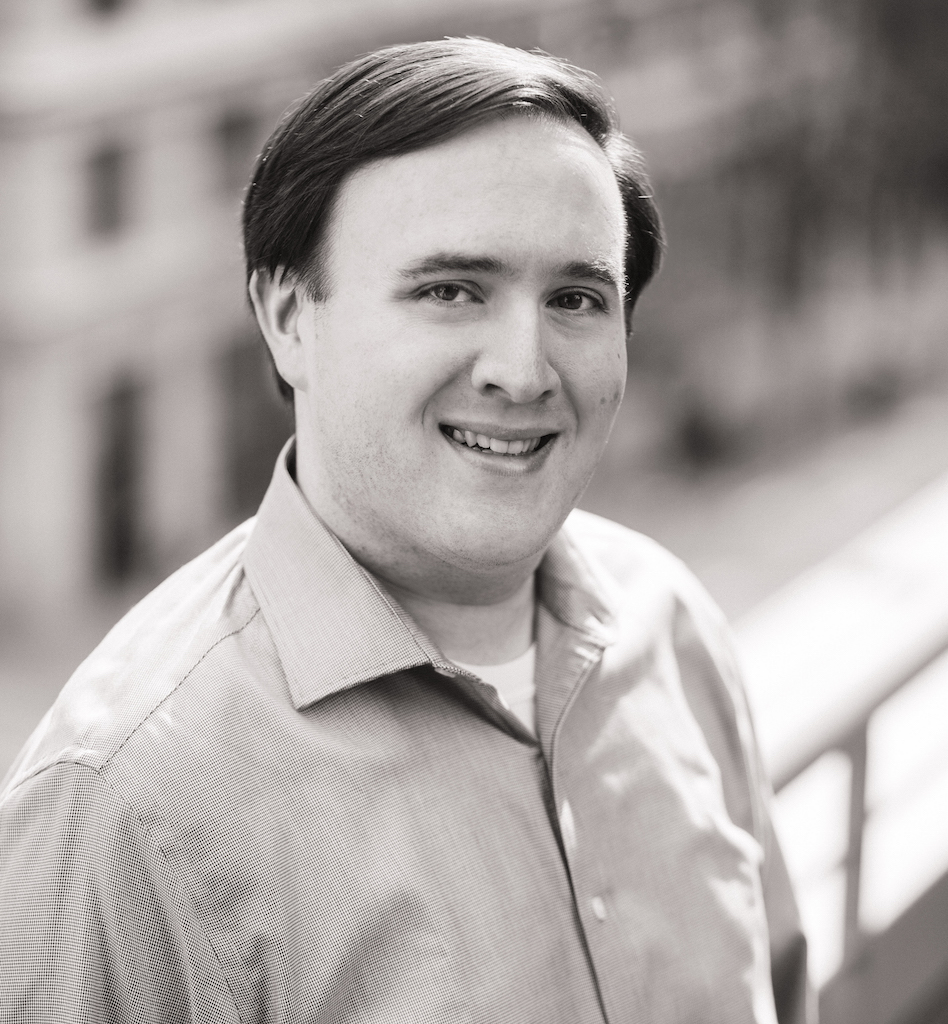
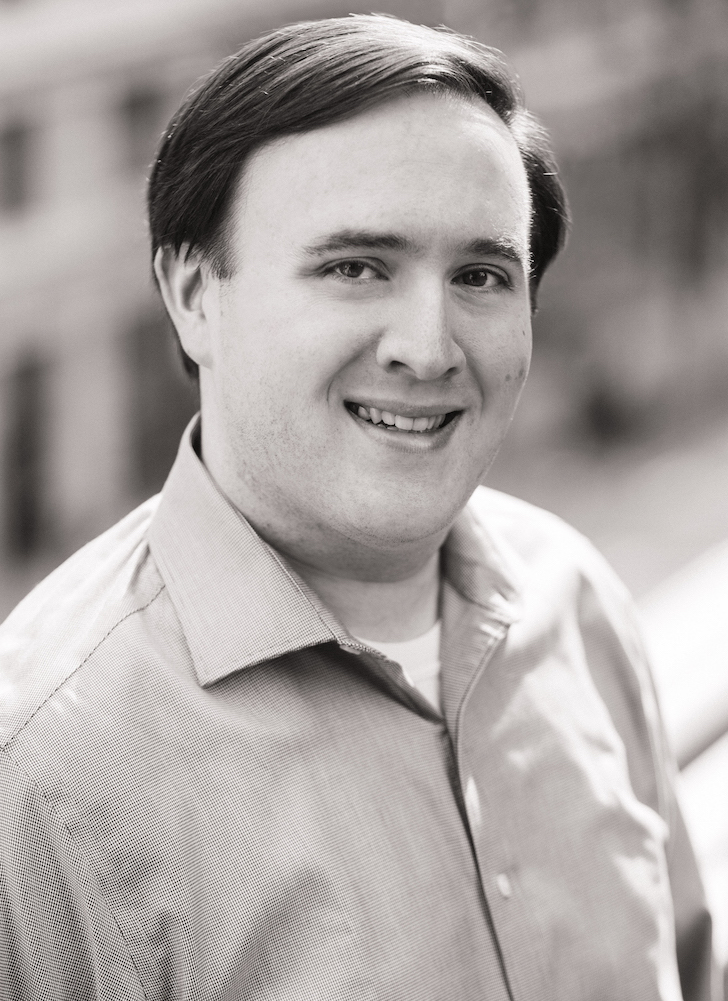
add images, headshot

diff --git a/index.html b/index.html
@@ -30,10 +30,14 @@
         <a class='anchor' name='about'></a>
         <h1 class='section-heading'>About Me</h1>
         <section class='about'>
-         <p>Lorem ipsum dolor sit amet, consectetur adipisicing elit. Quasi odit, dolore neque tenetur, in aliquam impedit, sunt laborum, incidunt saepe velit iusto inventore. Aspernatur facilis dolores est repellat debitis sed.</p>
-         <p>Aliquam sequi dolores reiciendis voluptatibus at temporibus hic illum nam, ipsam a sint placeat, illo accusamus. Quia sed a, corrupti nostrum explicabo vero voluptatum numquam labore, natus excepturi, est aspernatur?</p>
-         <p>Dolorum, id, at adipisci porro, obcaecati reiciendis, temporibus non sapiente voluptas similique velit nobis in distinctio quas? Deserunt, magni recusandae amet quaerat, beatae dignissimos facere nemo eaque. Quos obcaecati, voluptatibus.</p>
-         <p>Distinctio earum consectetur repudiandae, quaerat quae, veritatis tempora nulla. Ipsa tempore illo voluptate ea, consequuntur, repellat veniam repudiandae voluptatum minima nihil hic magni nobis est modi dolor quia. Deleniti, omnis.</p>
+          <div class='about-text'>
+          <img class='headshot' src='images/headshot.jpg'></img>
+
+            <p>My family got our first computer from Radio Shack in the late '80s. It was a Tandy 1000 286, and I was 5. I've been hooked ever since.</p>
+            <p>I graduated from <a href='https://www.binghamton.edu'>Binghamton University</a> in 2005, with a double major in computer science and music. After a brief stint at <a href='https://www.gs.com'>Goldman Sachs</a> and a failed startup, I spent 7 years building and managing a client-facing solutions engineering team at Capital IQ, which is now part of <a href='https://www.spglobal.com'>S&amp;P Global</a>. Since 2015, I've been part of the Professional Services team at <a href='https://www.skytap.com'>Skytap</a>, a cloud infrastructure startup.</p>
+            <p>I love to get my hands dirty using interesting technology to solve customers' problems. I'm passionate about developing and leading teams of engineers who do the same.</p>
+            <p>Other things I enjoy include stand-up comedy, choral music, podcasts, and correct grammar and spelling.</p>
+          </div>
         </section>
         <a class='anchor' name='portfolio'></a>
         <h1 class='section-heading'>Portfolio</h1>

diff --git a/css/styles.css b/css/styles.css
@@ -14,10 +14,13 @@ body {
 
 a {
   text-decoration: none;
+}
+
+.footer a {
   color: #FFCF33;
 }
 
-a:hover {
+.footer a:hover {
   color: #FFE799;
 }
 
@@ -94,6 +97,12 @@ a:hover {
   font-weight: bold;
   margin-top: 0;
   margin-bottom: 0.75rem;
+}
+
+.headshot {
+  float: right;
+  height: 250px;
+  padding-left: 3rem;
 }
 
 .section-heading {
@@ -267,5 +276,12 @@ a.anchor {
   .portfolio-item img {
     height: 11rem;
     margin-top: 0.5rem;
+  }
+
+  .headshot {
+    float: none;
+    height: 150px;
+    margin-top: 1rem;
+    padding-left: 0;
   }
 }
